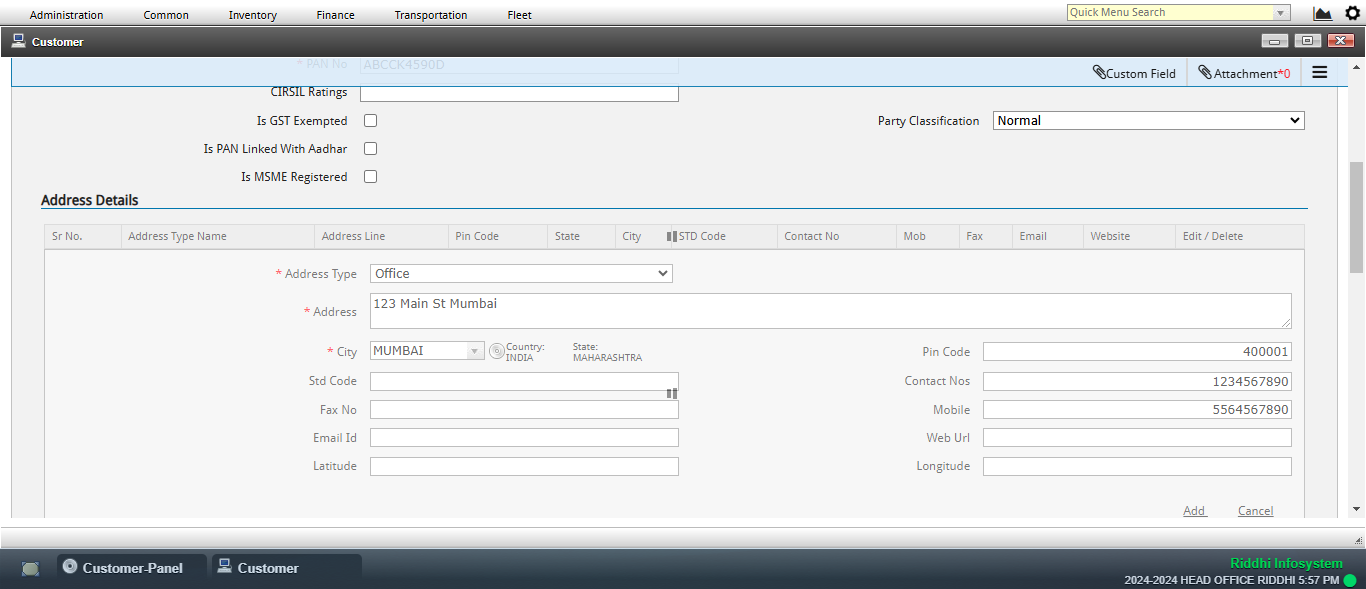
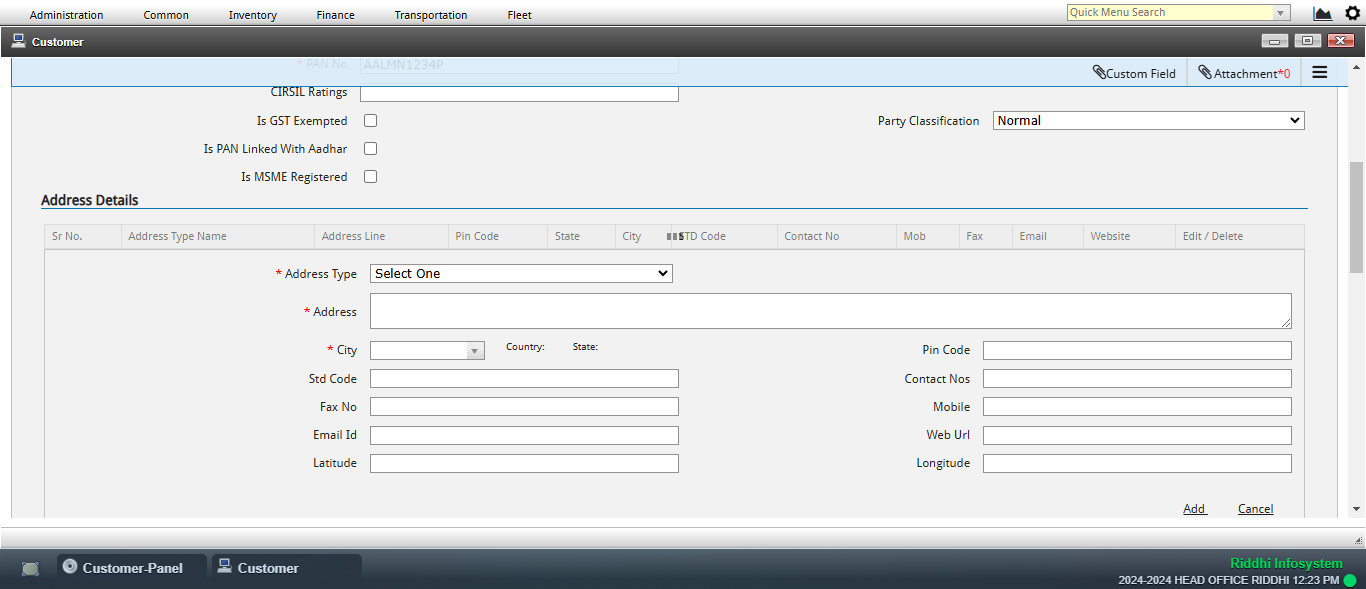
Commit

diff --git a/ERP Master/Customer_Master/customer_master.py b/ERP Master/Customer_Master/customer_master.py
@@ -41,44 +41,40 @@ class CustomerMaster(unittest.TestCase):
         print(f"{value} updated to {option_text}")
 
     def autocomplete_select(self, by, value, text, timeout=10):
-        """Selects an option from an autocomplete dropdown by typing and choosing the first suggestion."""
+        """Selects an option from an autocomplete dropdown."""
         input_field = WebDriverWait(self.driver, timeout).until(
             EC.visibility_of_element_located((by, value))
         )
         input_field.clear()
-        input_field.send_keys(text)  # Step 1: Enter text
+        input_field.send_keys(text)
 
-        time.sleep(3)  # Increase time for dropdown to load
+        time.sleep(2)  # Wait for dropdown to load
 
-        # Wait until at least one suggestion appears
         suggestions = WebDriverWait(self.driver, timeout).until(
             EC.presence_of_all_elements_located((By.CLASS_NAME, "ui-menu-item"))
         )
 
         for suggestion in suggestions:
-            print(f"Suggestion found: {suggestion.text}")  # Debugging
-            if text.upper() in suggestion.text.upper():
+            if text.lower() in suggestion.text.lower():
                 suggestion.click()
-                print(f"Selected {text} from autocomplete")
-                return
-
-        # If no exact match, try arrow key + Enter
-        input_field.send_keys(Keys.DOWN)
-        input_field.send_keys(Keys.ENTER)
-        print(f"{value} updated with {text} using keyboard")
+            print(f"Selected {text} from autocomplete")
+            return
 
     def switch_frames(self, element_id):
+        """Switches to the correct iframe containing the desired element."""
         driver = self.driver
         driver.switch_to.default_content()
 
         for iframe in driver.find_elements(By.TAG_NAME, "iframe"):
             driver.switch_to.frame(iframe)
 
-            if driver.find_elements(By.ID, element_id):
-                return True
-            print(f"Switched to correct iframe for {element_id}")
+            try:
+                if driver.find_element(By.ID, element_id):
+                    print(f"Switched to iframe containing {element_id}")
+                    return True
+            except:
+                driver.switch_to.default_content()
 
-            driver.switch_to.default_content()
         print(f"Unable to locate {element_id} in any iframe!")
         return False
 
@@ -107,7 +103,7 @@ class CustomerMaster(unittest.TestCase):
 
         # Basic Information
         if self.switch_frames("Party_PartyName"):
-            self.send_keys(By.ID, "Party_PartyName", "Bajaj Motorsport")
+            self.send_keys(By.ID, "Party_PartyName", "LMN Industries Ltd")
 
             self.dropdown_option(By.ID, "Party_PartyCategoryId", "GENERAL")
 
@@ -119,7 +115,7 @@ class CustomerMaster(unittest.TestCase):
         if self.switch_frames("EffectiveFromDate"):
             self.send_keys(By.ID, "EffectiveFromDate", "27-01-2025")
 
-            self.send_keys(By.ID, "PANNo", "ABCCK4590D")
+            self.send_keys(By.ID, "PANNo", "AALMN1234P")
 
             driver.save_screenshot("Basic Details.png")
 
@@ -147,7 +143,7 @@ class CustomerMaster(unittest.TestCase):
         if self.switch_frames("RegistrationHeadId"):
             self.dropdown_option(By.ID, "RegistrationHeadId", "PAN No.")
 
-            self.send_keys(By.ID, "Number", "ABCCK4590D")
+            self.send_keys(By.ID, "Number", "AALMN1234P")
 
             self.click_element(By.ID, "btnSave-RegistrationSession77")
 
@@ -192,7 +188,7 @@ class CustomerMaster(unittest.TestCase):
         if self.switch_frames("StateId"):
             self.dropdown_option(By.ID, "StateId", "MAHARASHTRA")
             self.dropdown_option(By.ID, "BusinessVerticalId", "TRANSPORTATION")
-            self.send_keys(By.ID, "GSTNumber", "27ABCCK4590DSZO")
+            self.send_keys(By.ID, "GSTNumber", "27AALMN1234PSZO")
             self.click_element(By.ID, "btnSave-CustGSTRegistrationSession77")
             driver.save_screenshot("GST Registration.png")
 
@@ -203,7 +199,7 @@ class CustomerMaster(unittest.TestCase):
             driver.save_screenshot("Customer Record Created.png")
 
         if self.switch_frames("txt_search"):
-            self.send_keys(By.ID, "txt_search", "Bajaj Motorsport")
+            self.send_keys(By.ID, "txt_search", "LMN Industries Ltd")
             self.click_element(By.ID, "btn_Seach")
             time.sleep(2)
             driver.save_screenshot("Search Results.png")

diff --git a/Integrating AI with Selenium/Applitools_Eyes.py b/Integrating AI with Selenium/Applitools_Eyes.py
@@ -1,0 +1,24 @@
+from applitools.selenium import Eyes
+from selenium import webdriver  # ✅ Correct import
+
+# Initialize Applitools Eyes
+eyes = Eyes()
+eyes.api_key = "YOUR_API_KEY"
+
+# Start WebDriver
+driver = webdriver.Chrome()  # ✅ Correct usage
+
+# Open Applitools session
+eyes.open(driver, "Demo App", "Test Case 1")
+
+# Navigate to your application
+driver.get("http://192.168.0.72/Rlogic9RLS/Login")
+
+# Capture and check the visual state
+eyes.check_window("Homepage")
+
+# Close the Applitools Eyes session
+eyes.close()
+
+# Quit the WebDriver
+driver.quit()  # ✅ Always close WebDriver

diff --git a/Integrating AI with Selenium/TestDataGeneration.py b/Integrating AI with Selenium/TestDataGeneration.py
@@ -1,0 +1,15 @@
+from faker import Faker
+
+fake = Faker()
+
+print(fake.vendorname())  # Generates a random name
+print(
+    fake.random_uppercase_letter()
+    + fake.random_uppercase_letter()
+    + fake.random_uppercase_letter()
+    + fake.random_uppercase_letter()
+    + fake.random_uppercase_letter()
+    + str(fake.random_int(min=1000, max=9999))
+    + "P"
+)  # Generates a fake PAN No.
+print(fake.address())  # Generates a random address

diff --git a/Integrating AI with Selenium/AI_for_Log Analysis.py b/Integrating AI with Selenium/AI_for_Log Analysis.py
@@ -1,0 +1,8 @@
+import pandas as pd
+from sklearn.cluster import KMeans
+
+df = pd.read_csv("test_logs.csv")
+model = KMeans(n_clusters=3)
+df["Cluster"] = model.fit_predict(df[["execution_time", "error_count"]])
+
+print(df.head())
